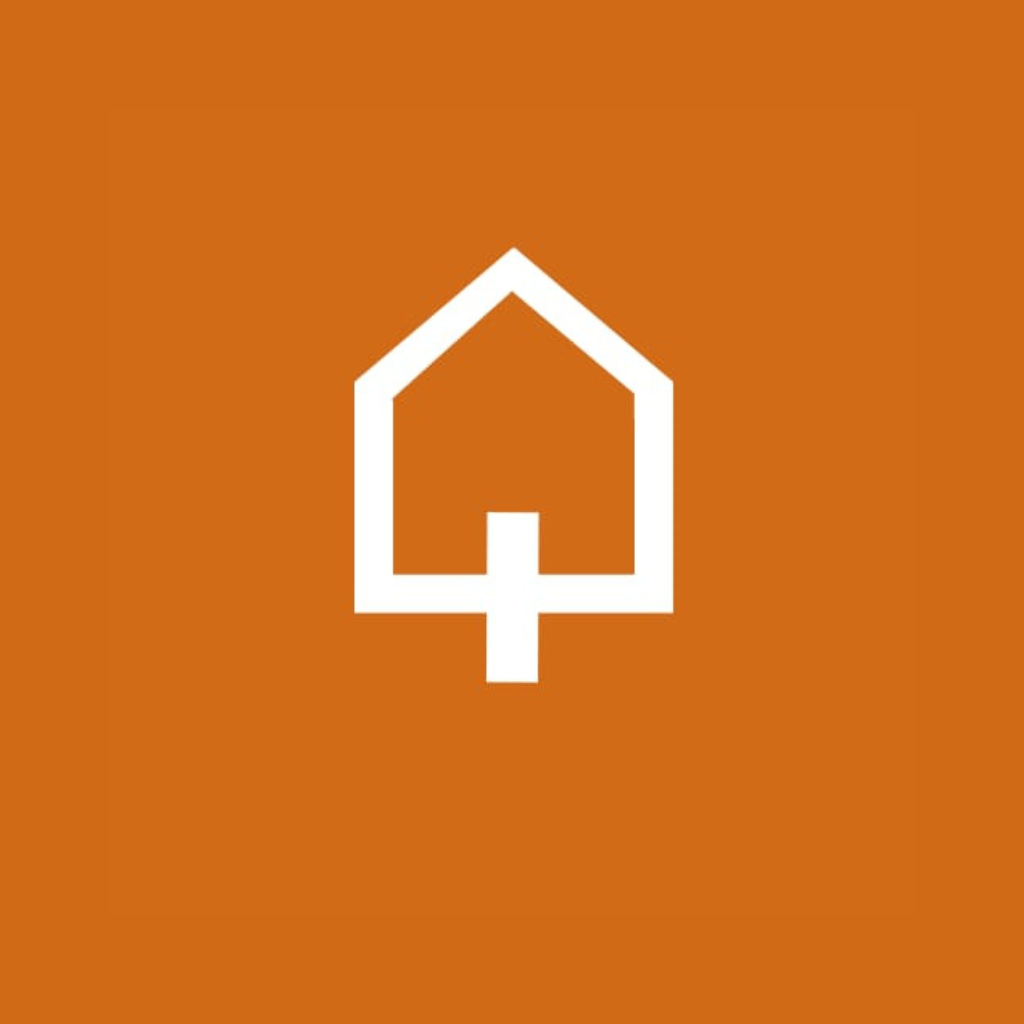
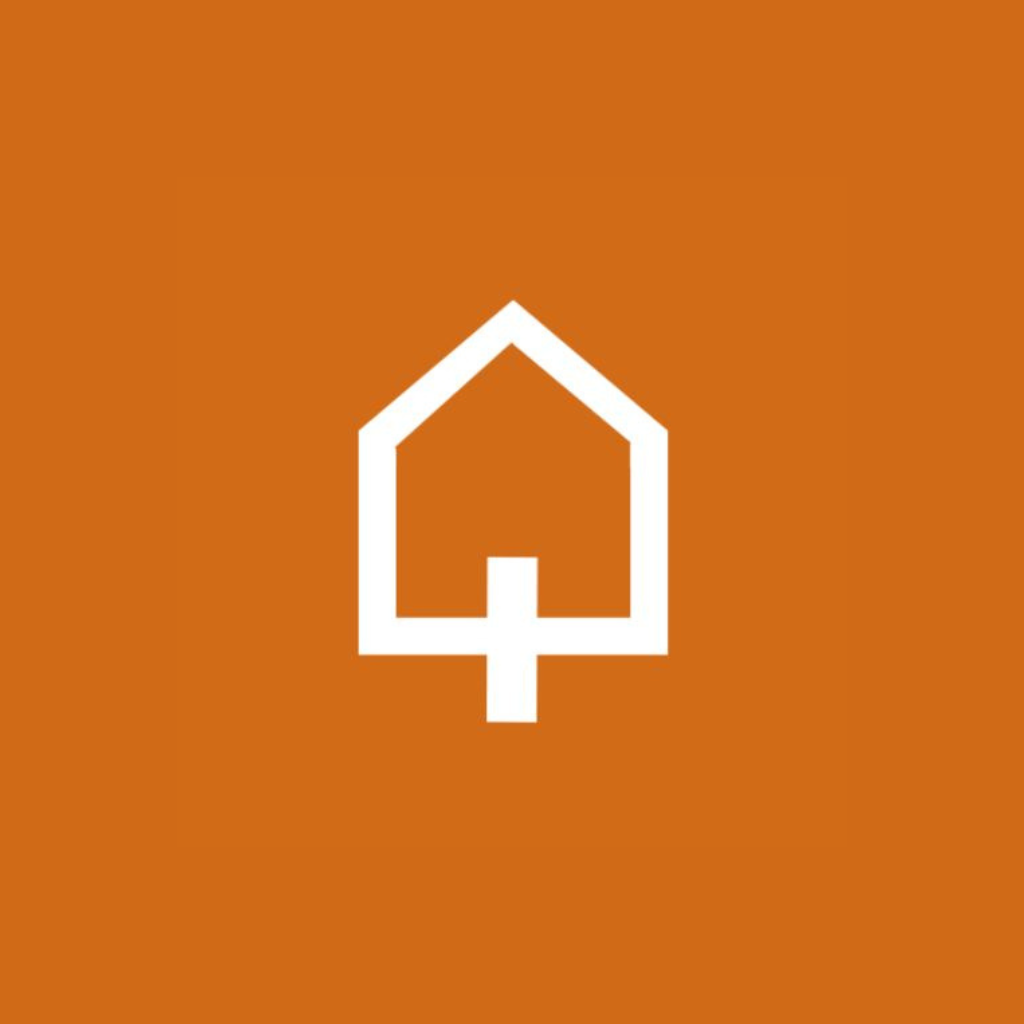
agregamos nueva carpeta drive y correjimos imagen

Changed region(s): [[0.3438, 0.25, 0.6562, 0.7188]]

diff --git a/src/screens/DriveScreen.js b/src/screens/DriveScreen.js
@@ -63,18 +63,34 @@ const DRIVE_FOLDERS = [
         url: "https://drive.google.com/drive/folders/1O9PplReeUQIGwi0yoeRQt6kqUN2ztfSo",
     },
     {
+        id: "produccion_estudiarq",
+        title: "Producción EstudiARQ",
+        description: "Accedé a materiales, recursos y archivos de producción de EstudiARQ.",
+        icon: "book-open-page-variant-outline",
+
+        color: "#CA8A04",
+        soft: "rgba(202, 138, 4, 0.12)",
+        border: "rgba(202, 138, 4, 0.25)",
+
+        darkColor: "#FDE68A",
+        darkSoft: "rgba(253, 230, 138, 0.15)",
+        darkBorder: "rgba(253, 230, 138, 0.34)",
+
+        url: "https://drive.google.com/drive/folders/1O9PplReeUQIGwi0yoeRQt6kqUN2ztfSo",
+    },
+    {
         id: "biblioteca",
         title: "Biblioteca",
         description: "Consultá recursos, referencias y material de consulta del equipo.",
         icon: "bookshelf",
 
-        color: "#B7791F",
-        soft: "rgba(183, 121, 31, 0.12)",
-        border: "rgba(183, 121, 31, 0.24)",
+        color: "#3B6478",
+        soft: "rgba(59, 100, 120, 0.11)",
+        border: "rgba(59, 100, 120, 0.24)",
 
-        darkColor: "#FDE68A",
-        darkSoft: "rgba(253, 230, 138, 0.15)",
-        darkBorder: "rgba(253, 230, 138, 0.34)",
+        darkColor: "#9CCFE3",
+        darkSoft: "rgba(156, 207, 227, 0.14)",
+        darkBorder: "rgba(156, 207, 227, 0.34)",
 
         url: "https://drive.google.com/drive/folders/17U_9Lu0OrxKKtZQzPx3GgmuOIq2IbYgb",
     },

diff --git a/src/constants/noteCategories.js b/src/constants/noteCategories.js
@@ -49,7 +49,7 @@ export const NOTE_CATEGORIES = [
         onColor: "#FFFFFF",
         darkOnColor: "#431407",
 
-        icon: "package-variant-closed",
+        icon: "home-city-outline",
     },
     {
         key: "produccion_estudiarq",
@@ -66,7 +66,7 @@ export const NOTE_CATEGORIES = [
         onColor: "#FFFFFF",
         darkOnColor: "#422006",
 
-        icon: "home-city-outline",
+        icon: "book-open-page-variant-outline",
     },
 ];
 